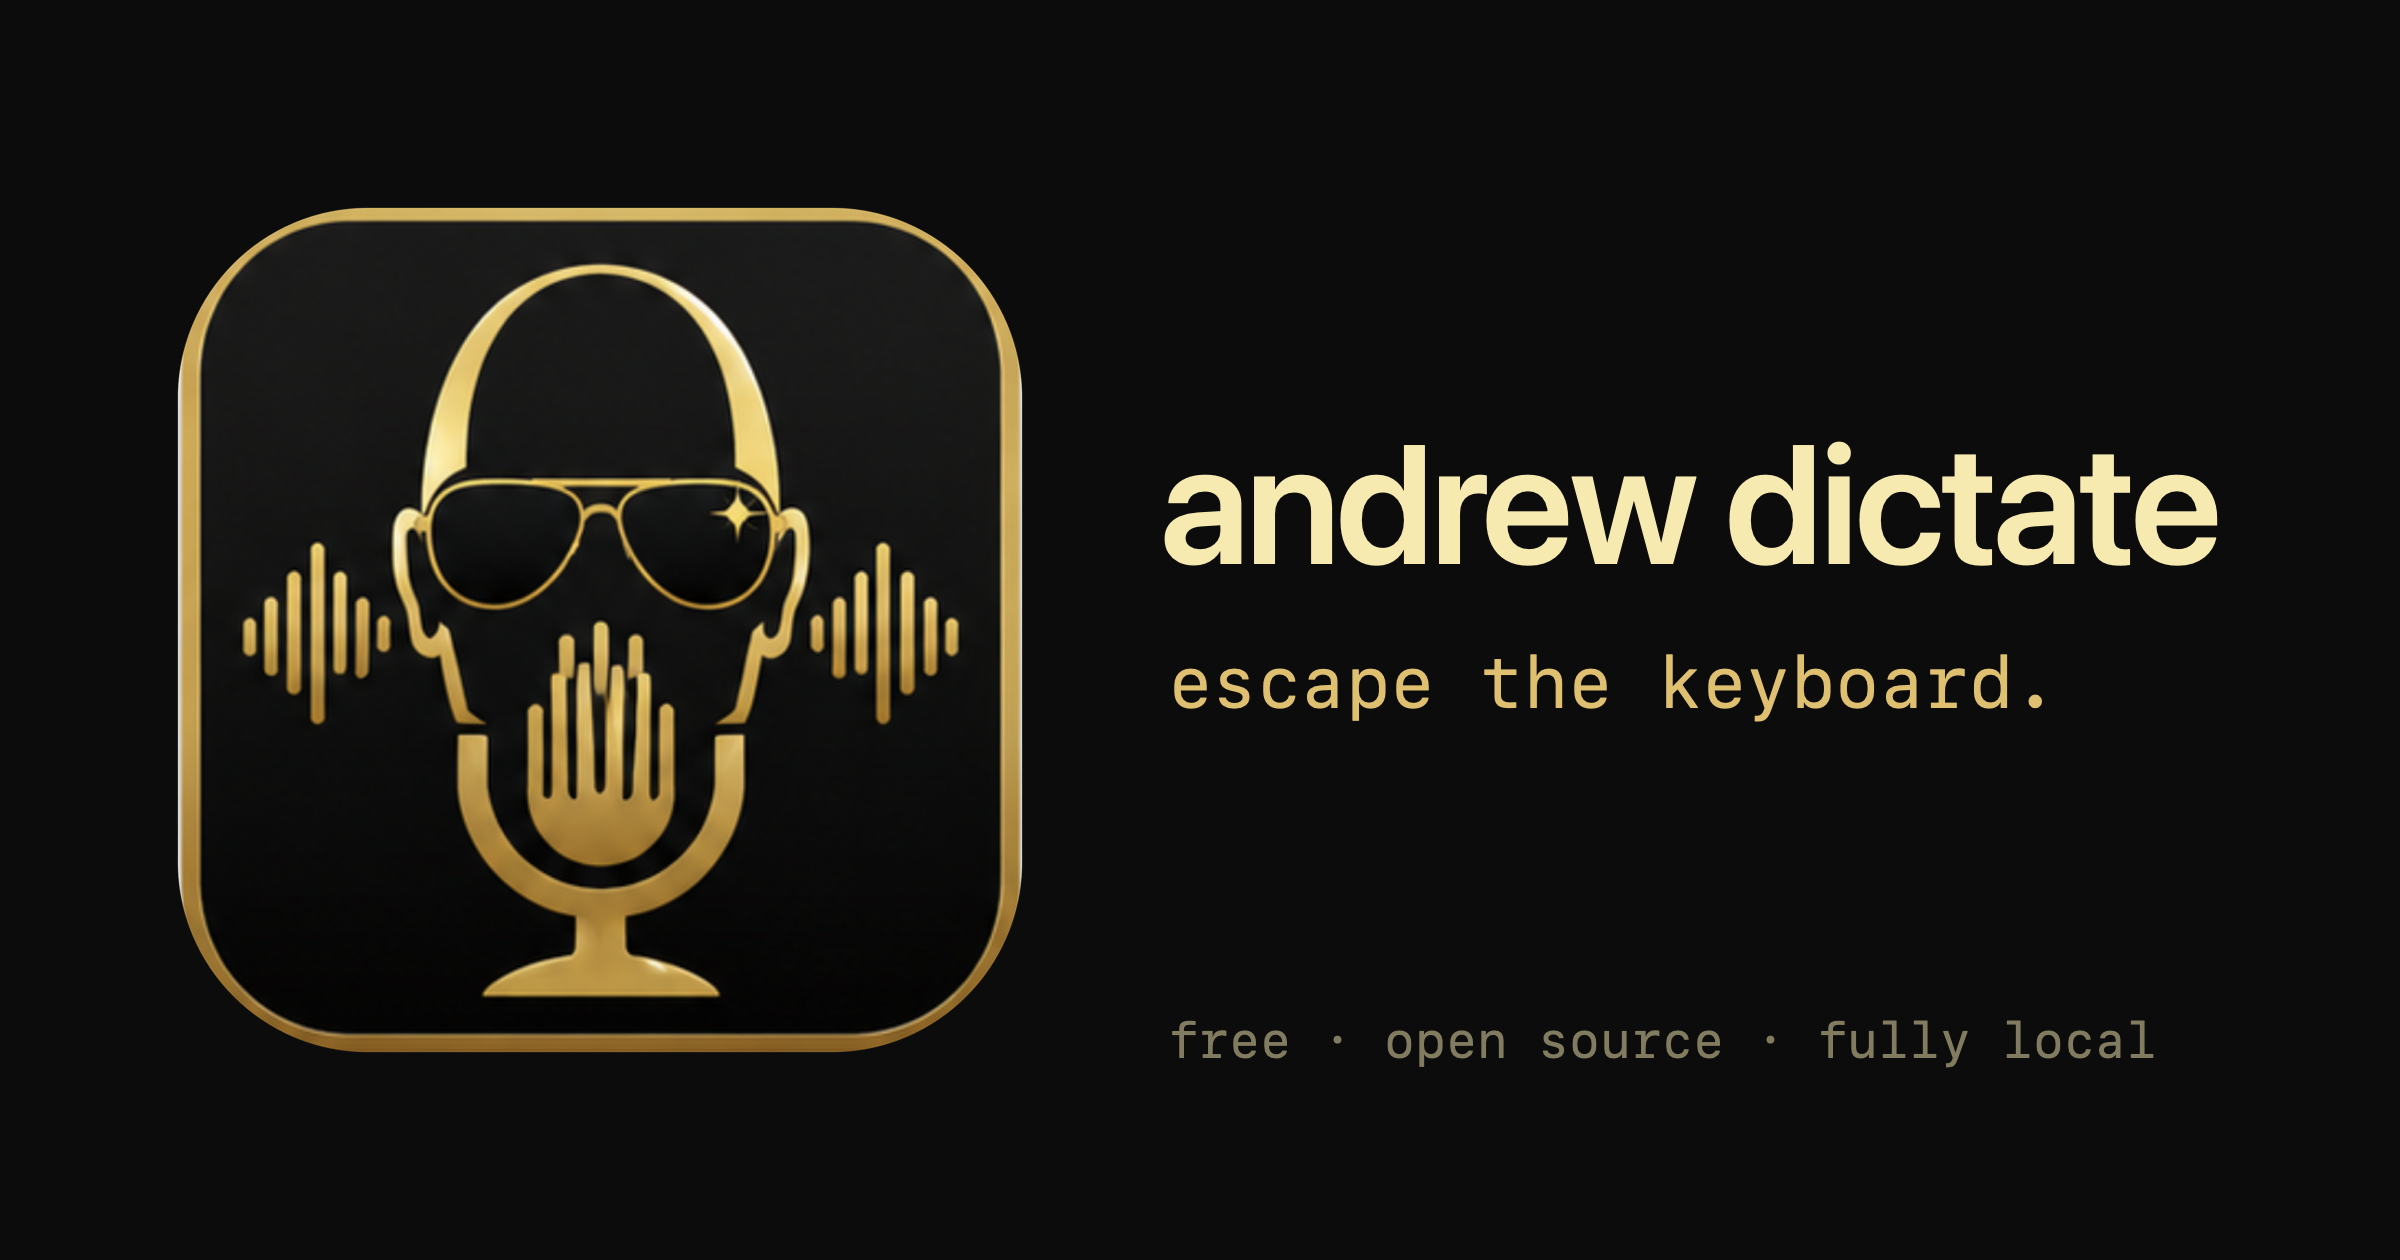
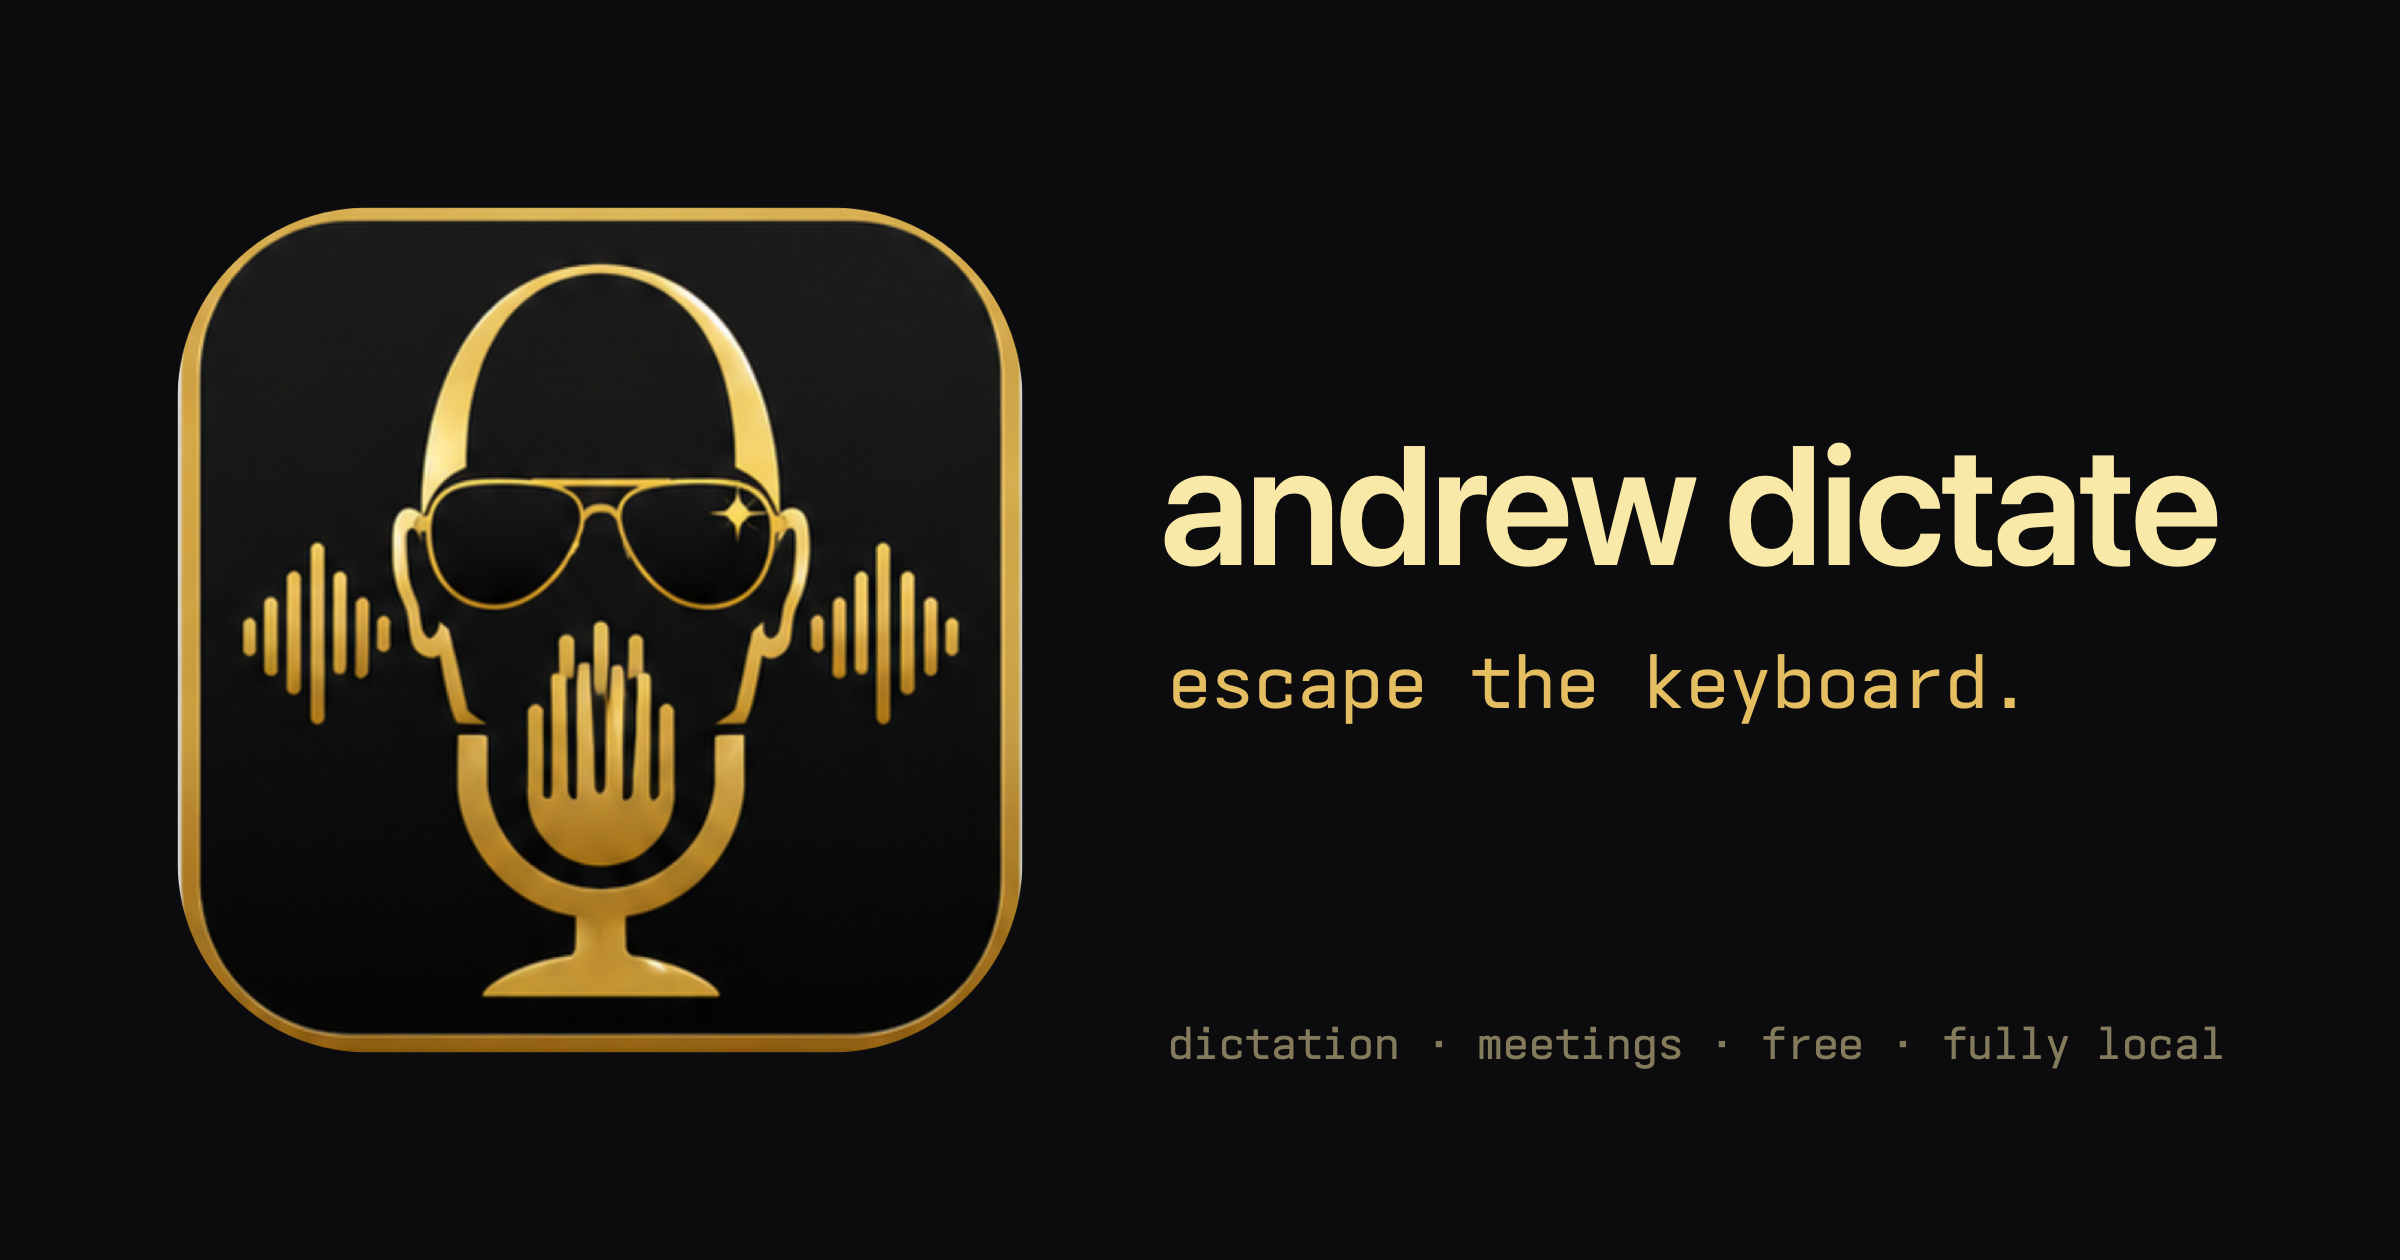
feat(art): the og image says meetings, in the app's mono, at the size the site ships

Changed region(s): [[0.4688, 0.8048, 0.9375, 0.8667], [0.5, 0.5262, 0.8438, 0.5881], [0.625, 0.4024, 0.6562, 0.4333]]

diff --git a/apps/mac/art/og-compose.swift b/apps/mac/art/og-compose.swift
@@ -1,38 +1,67 @@
 import AppKit
 
 // og image compositor: dark bg + the badge (from icon_1024.png) + type.
+// rendered at 2x (2400x1260) because that is what the site ships, into an
+// explicit bitmap so a retina display cannot double it again.
+// the type roles match the app (ADR 0037): paper for the name, machine
+// (Ioskeley Mono) for the tagline and the facts line.
 let art = FileManager.default.currentDirectoryPath
 guard let badge = NSImage(contentsOfFile: art + "/icon_1024.png") else { fatalError("no icon_1024") }
 
-let W: CGFloat = 1200, H: CGFloat = 630
-let img = NSImage(size: NSSize(width: W, height: H))
-img.lockFocus()
+let monoURL = URL(fileURLWithPath: art + "/../Sources/Resources/Fonts/IoskeleyMono-Regular.ttf")
+CTFontManagerRegisterFontsForURL(monoURL as CFURL, .process, nil)
+func mono(_ size: CGFloat) -> NSFont {
+    NSFont(name: "Ioskeley-Mono", size: size)
+        ?? NSFont.monospacedSystemFont(ofSize: size, weight: .regular)
+}
+
+let S: CGFloat = 2
+let W = Int(1200 * S), H = Int(630 * S)
+guard let rep = NSBitmapImageRep(
+    bitmapDataPlanes: nil, pixelsWide: W, pixelsHigh: H, bitsPerSample: 8,
+    samplesPerPixel: 4, hasAlpha: true, isPlanar: false,
+    colorSpaceName: .deviceRGB, bytesPerRow: 0, bitsPerPixel: 0
+) else { fatalError("no bitmap") }
+rep.size = NSSize(width: W, height: H)
+
+NSGraphicsContext.saveGraphicsState()
+guard let ctx = NSGraphicsContext(bitmapImageRep: rep) else { fatalError("no context") }
+NSGraphicsContext.current = ctx
+ctx.imageInterpolation = .high
+
 NSColor(srgbRed: 0x0C/255, green: 0x0C/255, blue: 0x0E/255, alpha: 1).setFill()
 NSRect(x: 0, y: 0, width: W, height: H).fill()
 
-NSGraphicsContext.current?.imageInterpolation = .high
-badge.draw(in: NSRect(x: 80, y: 95, width: 440, height: 440))
+badge.draw(in: NSRect(x: 80 * S, y: 95 * S, width: 440 * S, height: 440 * S))
 
 let goldPale = NSColor(srgbRed: 0xF9/255, green: 0xE9/255, blue: 0xA8/255, alpha: 1)
 let gold = NSColor(srgbRed: 0xE5/255, green: 0xBE/255, blue: 0x62/255, alpha: 1)
 
 let name = NSAttributedString(string: "andrew dictate", attributes: [
-    .font: NSFont.systemFont(ofSize: 84, weight: .semibold),
-    .foregroundColor: goldPale, .kern: -1.5])
-name.draw(at: NSPoint(x: 580, y: 330))
+    .font: NSFont.systemFont(ofSize: 84 * S, weight: .semibold),
+    .foregroundColor: goldPale, .kern: -1.5 * S])
+name.draw(at: NSPoint(x: 580 * S, y: 330 * S))
 
 let tag = NSAttributedString(string: "escape the keyboard.", attributes: [
-    .font: NSFont.monospacedSystemFont(ofSize: 36, weight: .regular),
+    .font: mono(36 * S),
     .foregroundColor: gold])
-tag.draw(at: NSPoint(x: 584, y: 268))
+tag.draw(at: NSPoint(x: 584 * S, y: 268 * S))
 
-let sub = NSAttributedString(string: "free · open source · fully local", attributes: [
-    .font: NSFont.monospacedSystemFont(ofSize: 25, weight: .regular),
-    .foregroundColor: goldPale.withAlphaComponent(0.5)])
-sub.draw(at: NSPoint(x: 584, y: 96))
-img.unlockFocus()
+// the facts line ends at the same margin the badge starts on. shrink until it fits.
+let subX = 584 * S, rightMargin = 80 * S
+var subSize = 25 * S
+var sub: NSAttributedString
+repeat {
+    sub = NSAttributedString(string: "dictation · meetings · free · fully local", attributes: [
+        .font: mono(subSize),
+        .foregroundColor: goldPale.withAlphaComponent(0.5)])
+    subSize -= 1
+} while sub.size().width > CGFloat(W) - subX - rightMargin
+sub.draw(at: NSPoint(x: subX, y: 96 * S))
 
-guard let tiff = img.tiffRepresentation, let rep = NSBitmapImageRep(data: tiff),
-      let png = rep.representation(using: .png, properties: [:]) else { fatalError("png fail") }
+ctx.flushGraphics()
+NSGraphicsContext.restoreGraphicsState()
+
+guard let png = rep.representation(using: .png, properties: [:]) else { fatalError("png fail") }
 try! png.write(to: URL(fileURLWithPath: art + "/og.png"))
 print("og composed")
